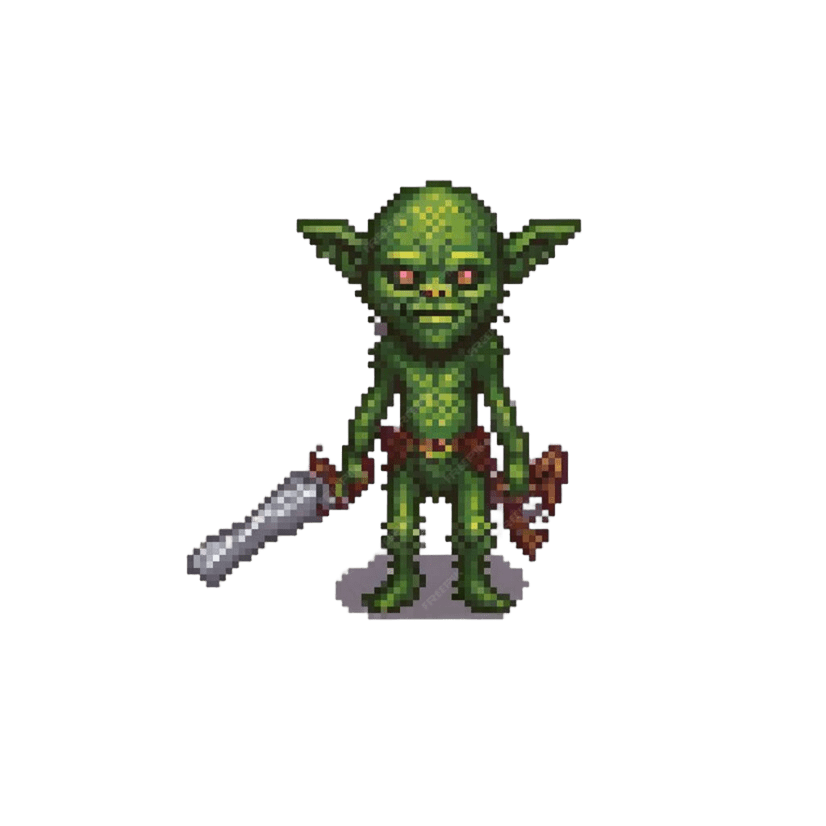
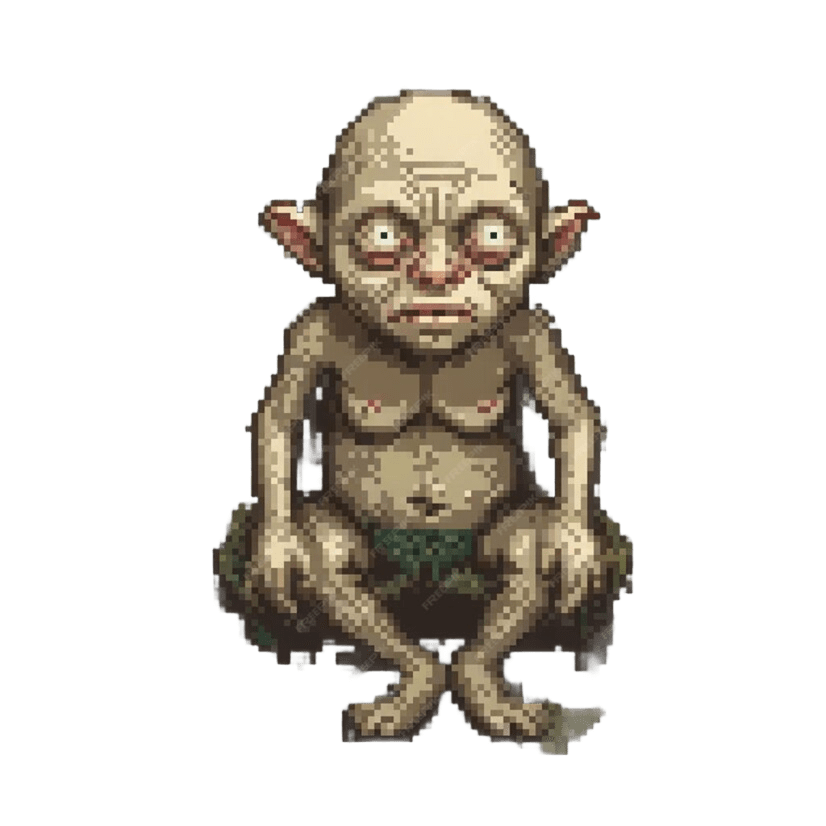
Add backgrounds and player image

Changed region(s): [[0.2119, 0.0908, 0.7869, 0.9383]]

diff --git a/styles/main.css b/styles/main.css
@@ -8,28 +8,51 @@ body{
 }
 
 #board {
-    width: 1000px;
+    width: 1400px;
     height: 800px;
     position: relative;
     border: 1px white;
-    /*TODO need to make sure this works 
-    background-image: url("./img/the-shire.jpg");*/
+    background-image: url("../img/the-shire.jpg");
     background-color: rgb(169, 184, 179);
     background-size: cover;
     overflow: hidden;
 }
 
 #page-gameover {
-
+    /*TODO fix background*/
+    background-color: rgba(0, 0, 0, 0.876);
+    background-image: url("../img/background-mordor-2.jpg");
+    color: chocolate;
+    size: 50vw;
 }
+
+/*#board-gameover {
+    width: 1000px;
+    height: 800px;
+    position: relative;
+    border: 1px white;
+    background-color: black;
+    background-image: url("../img/background-mordor.jpg");
+    background-color: rgb(169, 184, 179);
+    background-size: cover;
+    overflow: hidden;
+}*/
 
 
 #player {
-    background-color: rgb(23, 36, 23);
+    background-image: url("../img/gollum-grey.png");
+    background-size: cover;
     position: absolute;
 }
 
-.good-obstacle {
+.silver-obstacle {
+    background-image: ;
+    background-color: greenyellow;
+    position: absolute;
+}
+
+.gold-obstacle {
+    background-image: ;
     background-color: greenyellow;
     position: absolute;
 }

diff --git a/js/classes.js b/js/classes.js
@@ -5,10 +5,10 @@ const boardElement = document.getElementById("board");
 
 class Player {
     constructor() {
-      this.width = 100;
-      this.height = 100;
+      this.width = 140;
+      this.height = 140;
       this.positionX = 500 - this.width / 2;
-      this.positionY = 700;
+      this.positionY = 672;
       this.stepSize = 10
   
       this.playerElm = document.getElementById("player");

diff --git a/screens/game-over.html b/screens/game-over.html
@@ -13,8 +13,8 @@
 </head>
 
 <body id="page-gameover">
-    <div>
-    <h1>Game Over</h1>
+    <div id="board-gameover">
+    <h1>GAME OVER</h1>
     <div><a href="./index.html">Play again</a></div>
 </div>
 </body>
